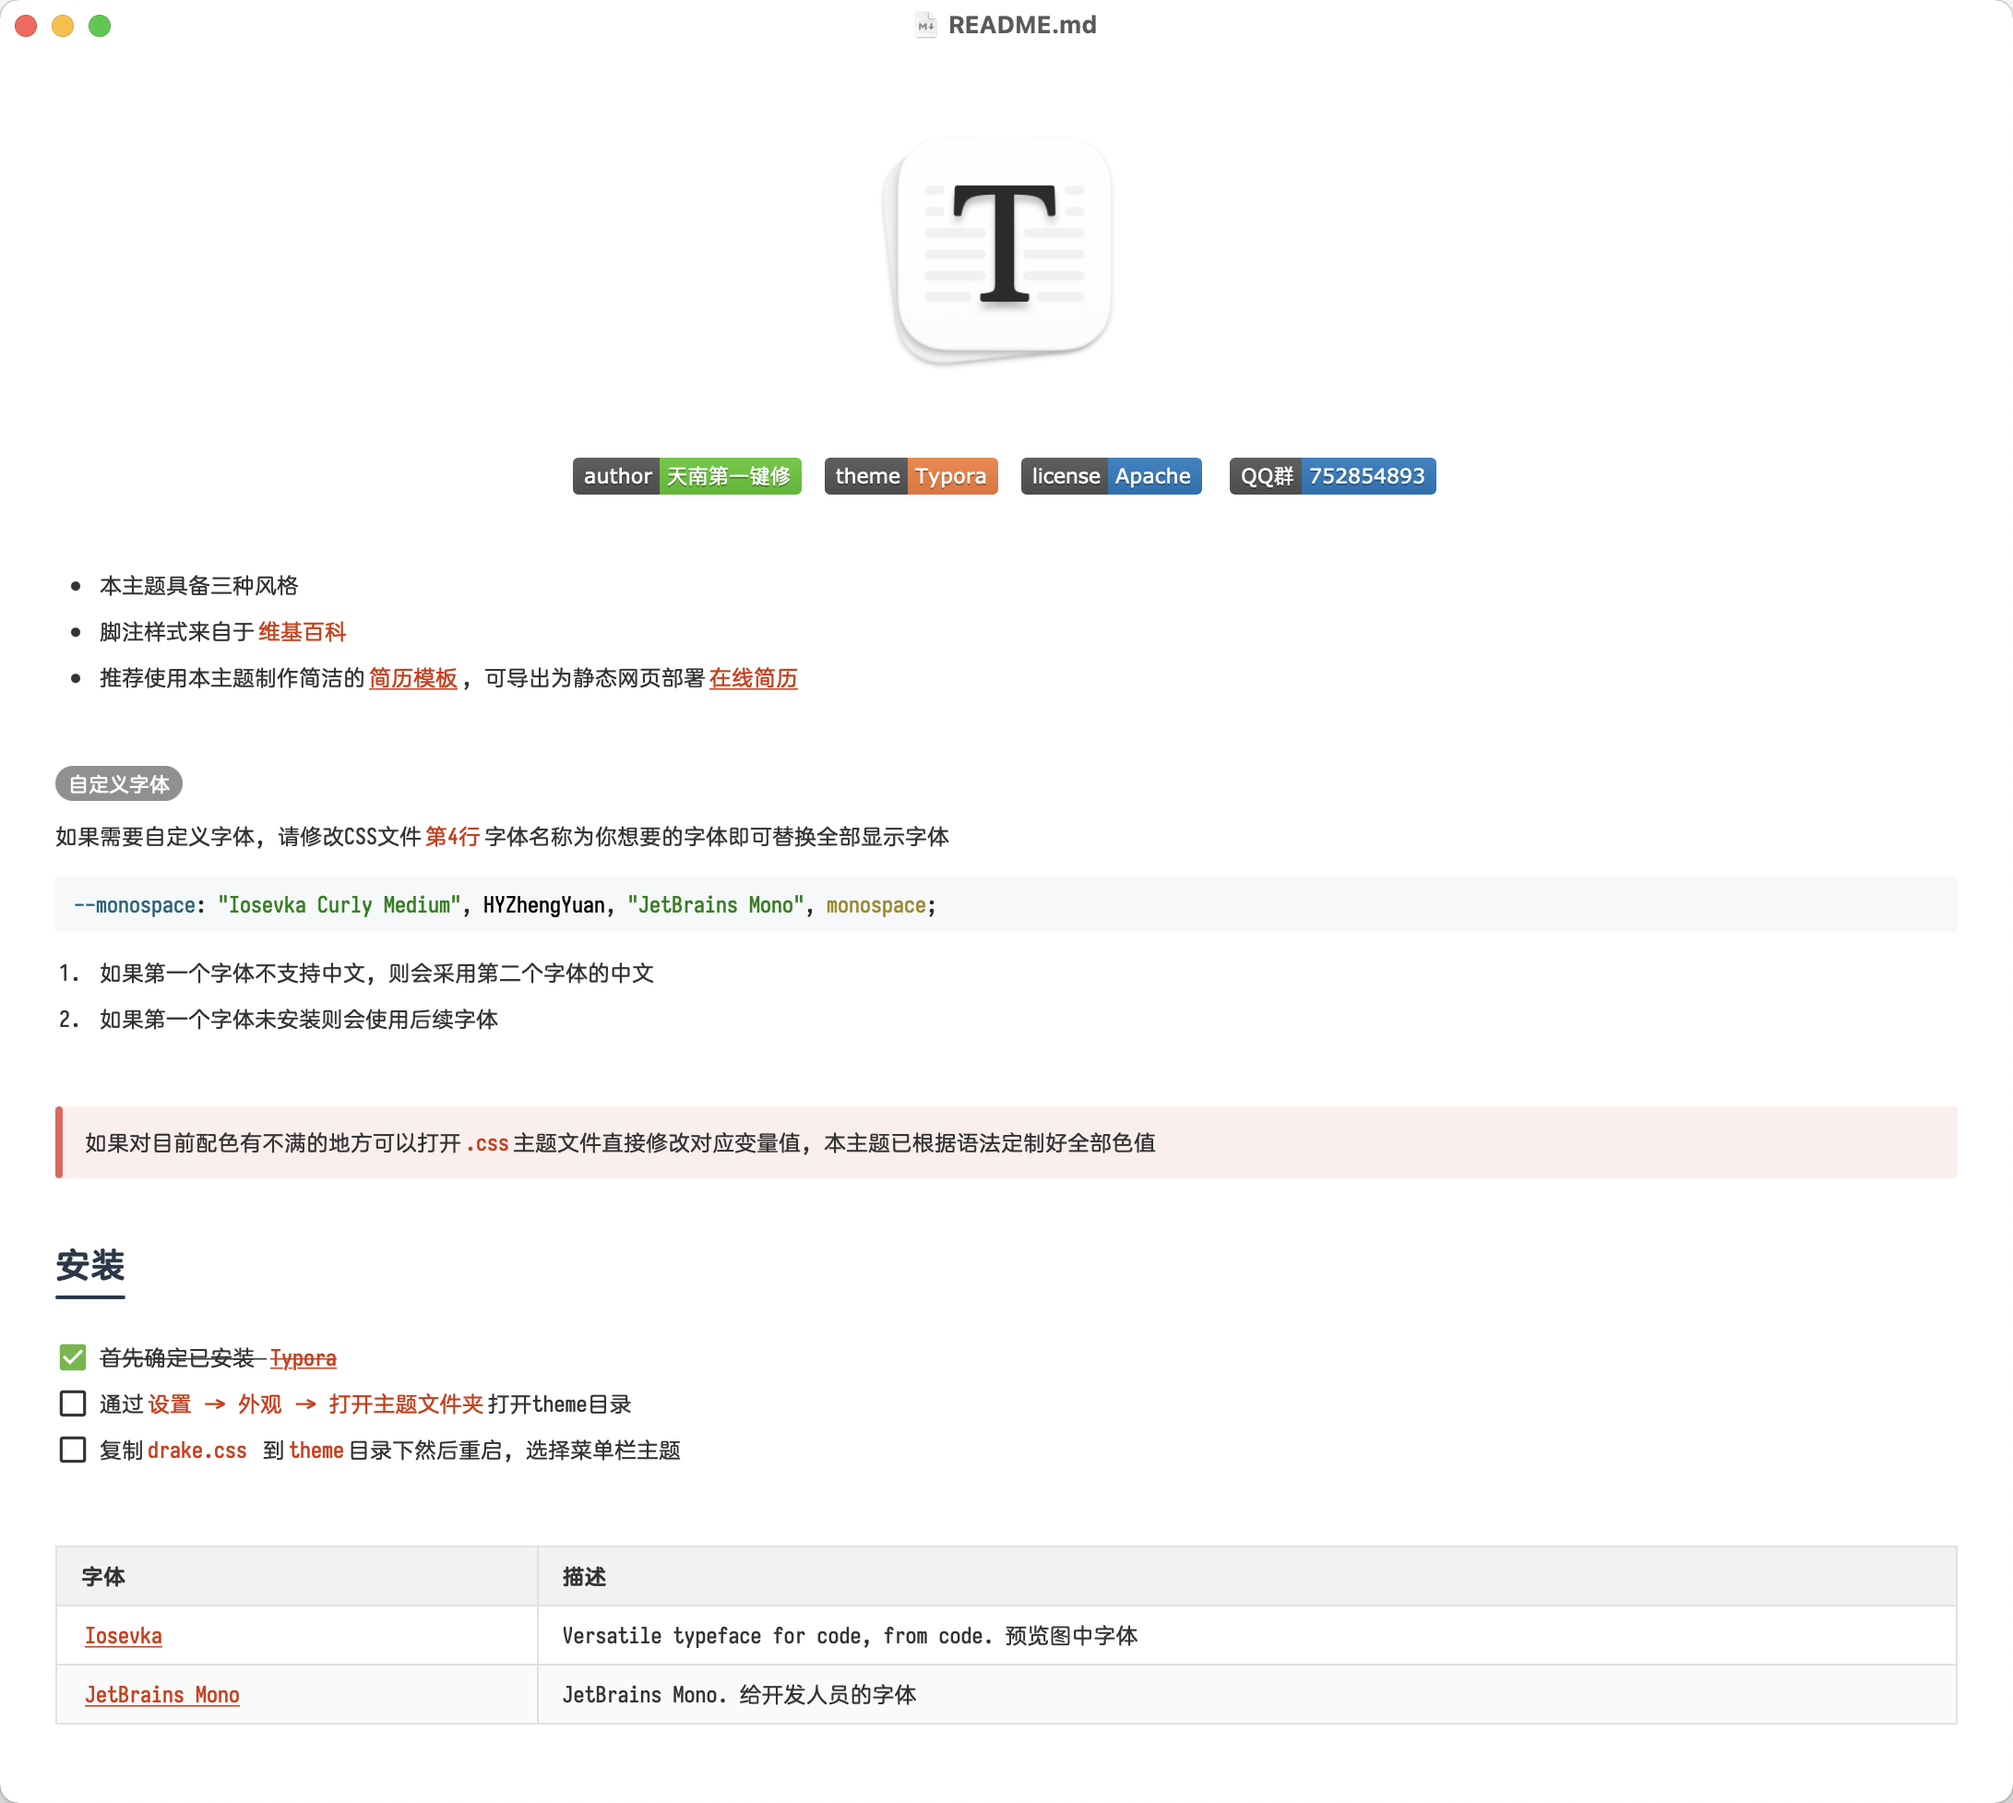
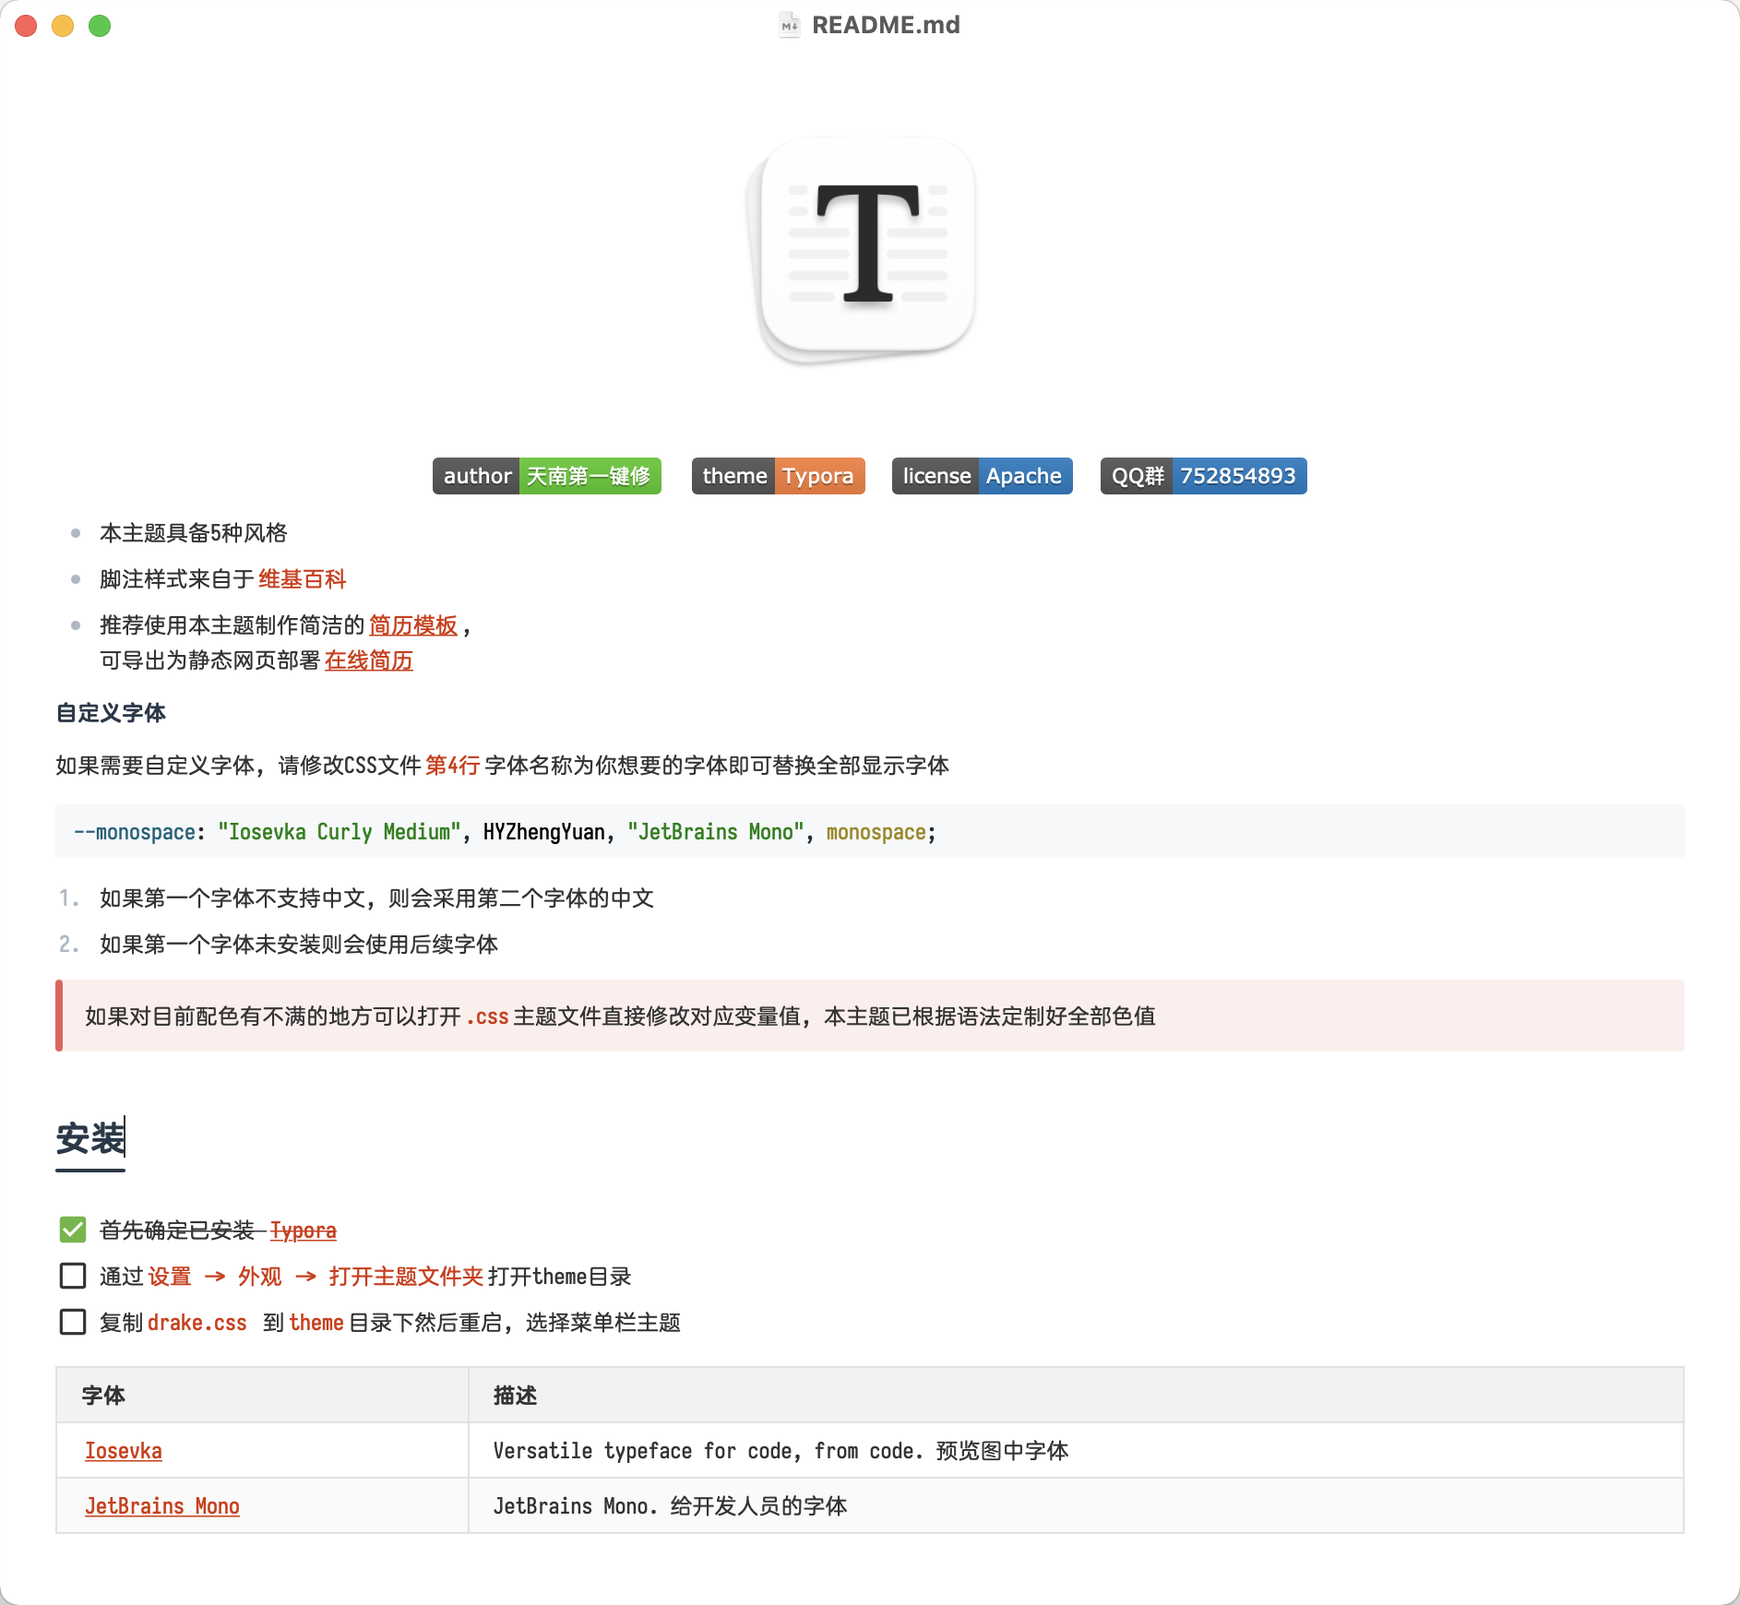
更新预览图

diff --git a/README.md b/README.md
@@ -9,13 +9,14 @@
 <a href="https://github.com/liangjingkanji/DrakeTyporaTheme"><img src="https://img.shields.io/badge/theme-Typora-orange.svg"/></a>
 <img src="https://img.shields.io/badge/license-Apache-blue"/>
 <a href="https://jq.qq.com/?_wv=1027&k=vWsXSNBJ"><img src="https://img.shields.io/badge/QQ群-752854893-blue"/></a>
-</p>
+</p><br>
 
-- 本主题具备三种风格
+- 本主题具备5种风格
 - 脚注样式来自于`维基百科`
 - 推荐使用本主题制作简洁的[简历模板](https://github.com/liangjingkanji/Resume-Template),
   可导出为静态网页部署[在线简历](https://liangjingkanji.github.io/Resume-Template/)
 
+<br>
 **自定义字体**
 
 如果需要自定义字体, 请修改CSS文件`第4行`字体名称为你想要的字体即可替换全部显示字体
@@ -35,7 +36,7 @@
 
 -   [ ] 通过`设置 -> 外观 -> 打开主题文件夹`打开theme目录
 
--   [ ] 复制`drake.css` 到`theme`目录下然后重启, 选择菜单栏主题
+-   [ ] 复制你想要的对应主题名称`*.css`后缀文件 到`theme`目录下然后重启, 选择菜单 -> 主题
 
 | 字体                                                       | 描述                                                 |
 | ---------------------------------------------------------- | ---------------------------------------------------- |
@@ -46,17 +47,13 @@
 
 提供多种配置预览, 点击查看高清大图
 
-### drake-dark
-
-<img src="https://raw.githubusercontent.com/liangjingkanji/DrakeTyporaTheme/master/img/thumbnail-dark.png" width="600"/> 
-
-### drake
-
-<img src="https://raw.githubusercontent.com/liangjingkanji/DrakeTyporaTheme/master/img/thumbnail.png" width="600"/> 
-
-### drake-light
-
-<img src="https://raw.githubusercontent.com/liangjingkanji/DrakeTyporaTheme/master/img/thumbnail-light.png" width="600"/> 
+| 主题名称     | 预览图                                                       |
+| ------------ | ------------------------------------------------------------ |
+| drake        | <img src="https://raw.githubusercontent.com/liangjingkanji/DrakeTyporaTheme/master/img/thumbnail.png" width="500"/> |
+| drake-dark   | <img src="https://raw.githubusercontent.com/liangjingkanji/DrakeTyporaTheme/master/img/thumbnail-dark.png" width="500"/> |
+| drake-purple | <img src="https://raw.githubusercontent.com/liangjingkanji/DrakeTyporaTheme/master/img/thumbnail-purple.png" width="500"/> |
+| drake-light  | <img src="https://raw.githubusercontent.com/liangjingkanji/DrakeTyporaTheme/master/img/thumbnail-light.png" width="500"/> |
+| drake-vue    | <img src="https://raw.githubusercontent.com/liangjingkanji/DrakeTyporaTheme/master/img/thumbnail-vue.png" width="500"/> |
 
 ## License
 
